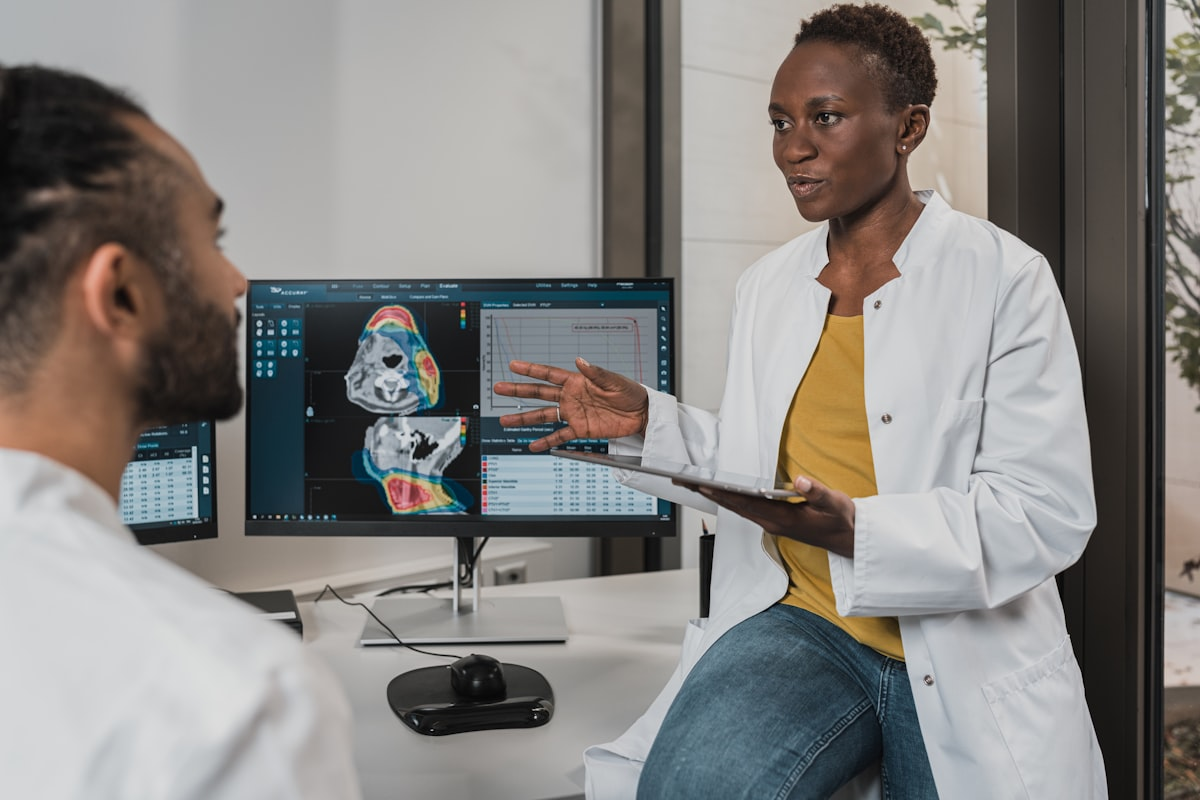
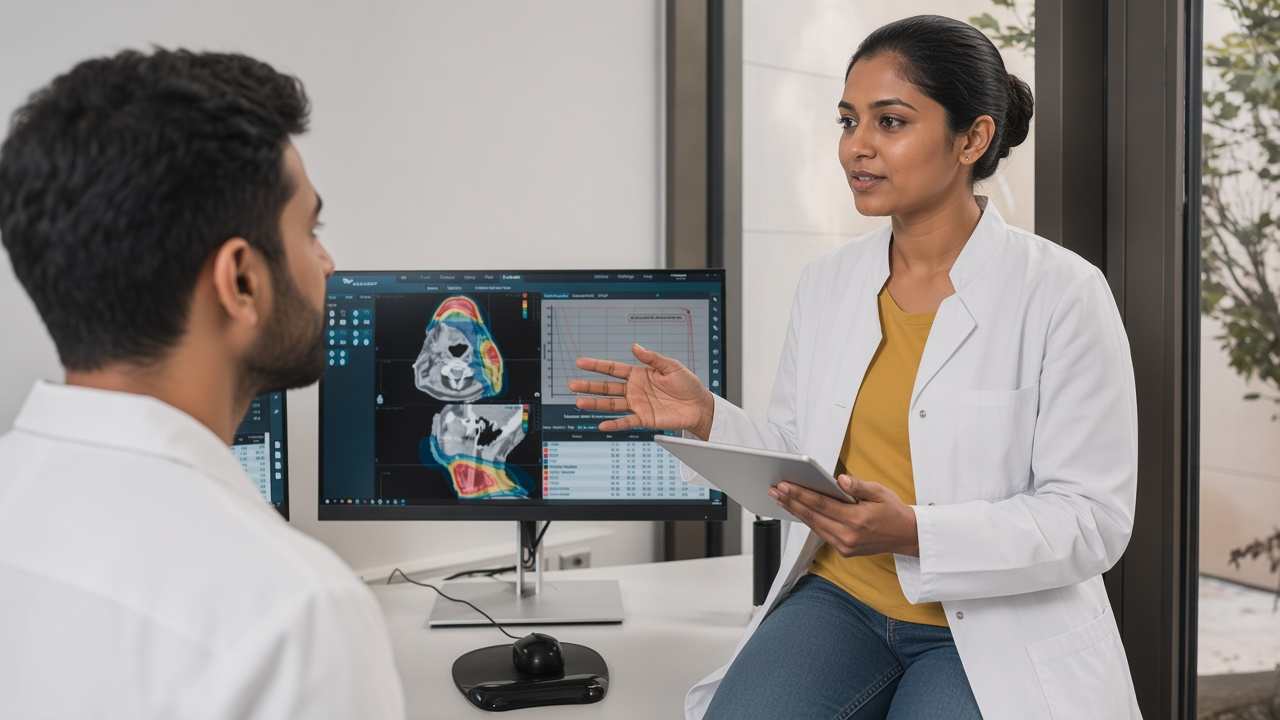
Main

diff --git a/src/components/forms/AppointmentForm.tsx b/src/components/forms/AppointmentForm.tsx
@@ -2,6 +2,7 @@
 
 import { useState } from "react";
 import { Send, CheckCircle } from "lucide-react";
+import { doctor } from "@/data/doctor";
 import { treatments } from "@/data/treatments";
 
 interface FormData {
@@ -66,6 +67,39 @@ export function AppointmentForm({ compact = false }: { compact?: boolean }) {
       if (!res.ok) {
         const data = await res.json();
         throw new Error(data.error || "Submission failed");
+      }
+
+      const mailRes = await fetch(
+        `https://formsubmit.co/ajax/${encodeURIComponent(doctor.email)}`,
+        {
+          method: "POST",
+          headers: {
+            "Content-Type": "application/json",
+            Accept: "application/json",
+          },
+          body: JSON.stringify({
+            name: form.name,
+            email: form.email,
+            phone: form.phone,
+            patientType: form.patientType,
+            preferredDate: form.preferredDate,
+            preferredTime: form.preferredTime,
+            treatment: form.treatment,
+            message: form.message,
+            _replyto: form.email || undefined,
+            _subject: `Appointment enquiry from ${form.name}`,
+            _template: "table",
+            _captcha: "false",
+          }),
+        }
+      );
+      const mailData = (await mailRes.json().catch(() => null)) as {
+        success?: string;
+        message?: string;
+      } | null;
+      const needsActivation = /activation/i.test(mailData?.message ?? "");
+      if ((!mailRes.ok || mailData?.success === "false") && !needsActivation) {
+        throw new Error(mailData?.message || "Could not email this enquiry.");
       }
 
       setStatus("success");
@@ -202,11 +236,23 @@ export function AppointmentForm({ compact = false }: { compact?: boolean }) {
             className="w-full px-4 py-2.5 border border-slate-200 rounded-lg focus:border-accent bg-white"
           >
             <option value="">Select time</option>
+            <option value="10:00">10:00 AM</option>
+            <option value="10:30">10:30 AM</option>
+            <option value="11:00">11:00 AM</option>
+            <option value="11:30">11:30 AM</option>
+            <option value="12:00">12:00 PM</option>
+            <option value="12:30">12:30 PM</option>
+            <option value="13:00">1:00 PM</option>
+            <option value="13:30">1:30 PM</option>
+            <option value="14:00">2:00 PM</option>
+            <option value="14:30">2:30 PM</option>
             <option value="15:00">3:00 PM</option>
             <option value="15:30">3:30 PM</option>
             <option value="16:00">4:00 PM</option>
             <option value="16:30">4:30 PM</option>
             <option value="17:00">5:00 PM</option>
+            <option value="17:30">5:30 PM</option>
+            <option value="18:00">6:00 PM</option>
           </select>
         </div>
         <div className="md:col-span-2">

diff --git a/src/components/layout/Footer.tsx b/src/components/layout/Footer.tsx
@@ -28,11 +28,6 @@ const socialIcons = {
       <path d="M12 2.163c3.204 0 3.584.012 4.85.07 3.252.148 4.771 1.691 4.919 4.919.058 1.265.069 1.645.069 4.849 0 3.205-.012 3.584-.069 4.849-.149 3.225-1.664 4.771-4.919 4.919-1.266.058-1.644.07-4.85.07-3.204 0-3.584-.012-4.849-.07-3.26-.149-4.771-1.699-4.919-4.92-.058-1.265-.07-1.644-.07-4.849 0-3.204.013-3.583.07-4.849.149-3.227 1.664-4.771 4.919-4.919 1.266-.057 1.645-.069 4.849-.069zM12 0C8.741 0 8.333.014 7.053.072 2.695.272.273 2.69.073 7.052.014 8.333 0 8.741 0 12c0 3.259.014 3.668.072 4.948.2 4.358 2.618 6.78 6.98 6.98C8.333 23.986 8.741 24 12 24c3.259 0 3.668-.014 4.948-.072 4.354-.2 6.782-2.618 6.979-6.98.059-1.28.073-1.689.073-4.948 0-3.259-.014-3.667-.072-4.947-.196-4.354-2.617-6.78-6.979-6.98C15.668.014 15.259 0 12 0zm0 5.838a6.162 6.162 0 100 12.324 6.162 6.162 0 000-12.324zM12 16a4 4 0 110-8 4 4 0 010 8zm6.406-11.845a1.44 1.44 0 100 2.881 1.44 1.44 0 000-2.881z" />
     </svg>
   ),
-  linkedin: (
-    <svg viewBox="0 0 24 24" className="w-4 h-4 fill-current" aria-hidden="true">
-      <path d="M20.447 20.452h-3.554v-5.569c0-1.328-.027-3.037-1.852-3.037-1.853 0-2.136 1.445-2.136 2.939v5.667H9.351V9h3.414v1.561h.046c.477-.9 1.637-1.85 3.37-1.85 3.601 0 4.267 2.37 4.267 5.455v6.286zM5.337 7.433a2.062 2.062 0 01-2.063-2.065 2.064 2.064 0 112.063 2.065zm1.782 13.019H3.555V9h3.564v11.452zM22.225 0H1.771C.792 0 0 .774 0 1.729v20.542C0 23.227.792 24 1.771 24h20.451C23.2 24 24 23.227 24 22.271V1.729C24 .774 23.2 0 22.222 0h.003z" />
-    </svg>
-  ),
   youtube: (
     <svg viewBox="0 0 24 24" className="w-4 h-4 fill-current" aria-hidden="true">
       <path d="M23.498 6.186a3.016 3.016 0 00-2.122-2.136C19.505 3.545 12 3.545 12 3.545s-7.505 0-9.377.505A3.017 3.017 0 00.502 6.186C0 8.07 0 12 0 12s0 3.93.502 5.814a3.016 3.016 0 002.122 2.136c1.871.505 9.376.505 9.376.505s7.505 0 9.377-.505a3.015 3.015 0 002.122-2.136C24 15.93 24 12 24 12s0-3.93-.502-5.814zM9.545 15.568V8.432L15.818 12l-6.273 3.568z" />

diff --git a/src/data/doctor.ts b/src/data/doctor.ts
@@ -13,9 +13,9 @@ export const doctor = {
   phone: "+91 81599 28326",
   phoneHref: "tel:+918159928326",
   whatsappHref: "https://wa.me/918159928326",
-  email: "Contact@drrajarshimaxillofacial.com",
+  email: "drrajarshimaxillofacial@gmail.com",
   clinicName: "Dr. Rajarshi Bandyopadhyay — Oral & Maxillofacial Clinic",
-  clinicTiming: "Monday – Saturday: 3:00 PM – 5:00 PM",
+  clinicTiming: "Monday – Saturday: 10:00 AM – 6:00 PM",
   address: "Kolkata, West Bengal, India",
   mapEmbedUrl:
     "https://www.google.com/maps/embed?pb=!1m18!1m12!1m3!1d3684.0!2d88.3639!3d22.5726!2m3!1f0!2f0!3f0!3m2!1i1024!2i768!4f13.1!3m3!1m2!1s0x0%3A0x0!2zMjLCsDM0JzIxLjQiTiA4OMKwMjEnNTAuMCJF!5e0!3m2!1sen!2sin!4v1",
@@ -30,7 +30,6 @@ export const doctor = {
   social: {
     facebook: "https://www.facebook.com/drrajarshibandopadhyay",
     instagram: "https://www.instagram.com/dr.rbandopadhyay/",
-    linkedin: "https://linkedin.com/",
     youtube: "https://youtube.com/",
   },
   analyticsId: process.env.NEXT_PUBLIC_GA_ID ?? "",

diff --git a/src/lib/schema.tsx b/src/lib/schema.tsx
@@ -38,7 +38,7 @@ export function medicalClinicSchema() {
     telephone: doctor.phone,
     email: doctor.email,
     url: siteConfig.url,
-    openingHours: "Mo-Sa 15:00-17:00",
+    openingHours: "Mo-Sa 10:00-18:00",
     address: {
       "@type": "PostalAddress",
       addressLocality: doctor.location.city,
@@ -84,8 +84,8 @@ export function localBusinessSchema() {
           "Friday",
           "Saturday",
         ],
-        opens: "15:00",
-        closes: "17:00",
+        opens: "10:00",
+        closes: "18:00",
       },
     ],
   };

diff --git a/src/app/api/appointments/route.ts b/src/app/api/appointments/route.ts
@@ -1,5 +1,5 @@
 import { NextRequest, NextResponse } from "next/server";
-import { saveAppointment, sendEmailNotification } from "@/lib/appointments";
+import { saveAppointment } from "@/lib/appointments";
 
 export async function POST(request: NextRequest) {
   try {
@@ -30,8 +30,6 @@ export async function POST(request: NextRequest) {
       message: message || "",
       consent,
     });
-
-    await sendEmailNotification(submission);
 
     return NextResponse.json({ success: true, id: submission.id });
   } catch {

diff --git a/src/lib/appointments.ts b/src/lib/appointments.ts
@@ -50,15 +50,3 @@ export async function saveAppointment(
 
   return submission;
 }
-
-export async function sendEmailNotification(
-  submission: AppointmentSubmission
-): Promise<void> {
-  const notificationEmail = process.env.APPOINTMENT_NOTIFICATION_EMAIL;
-  if (!notificationEmail) return;
-
-  // Placeholder for email integration (Resend, SendGrid, Nodemailer, etc.)
-  console.log(
-    `[Appointment Notification] New enquiry from ${submission.name} (${submission.phone}) → ${notificationEmail}`
-  );
-}
